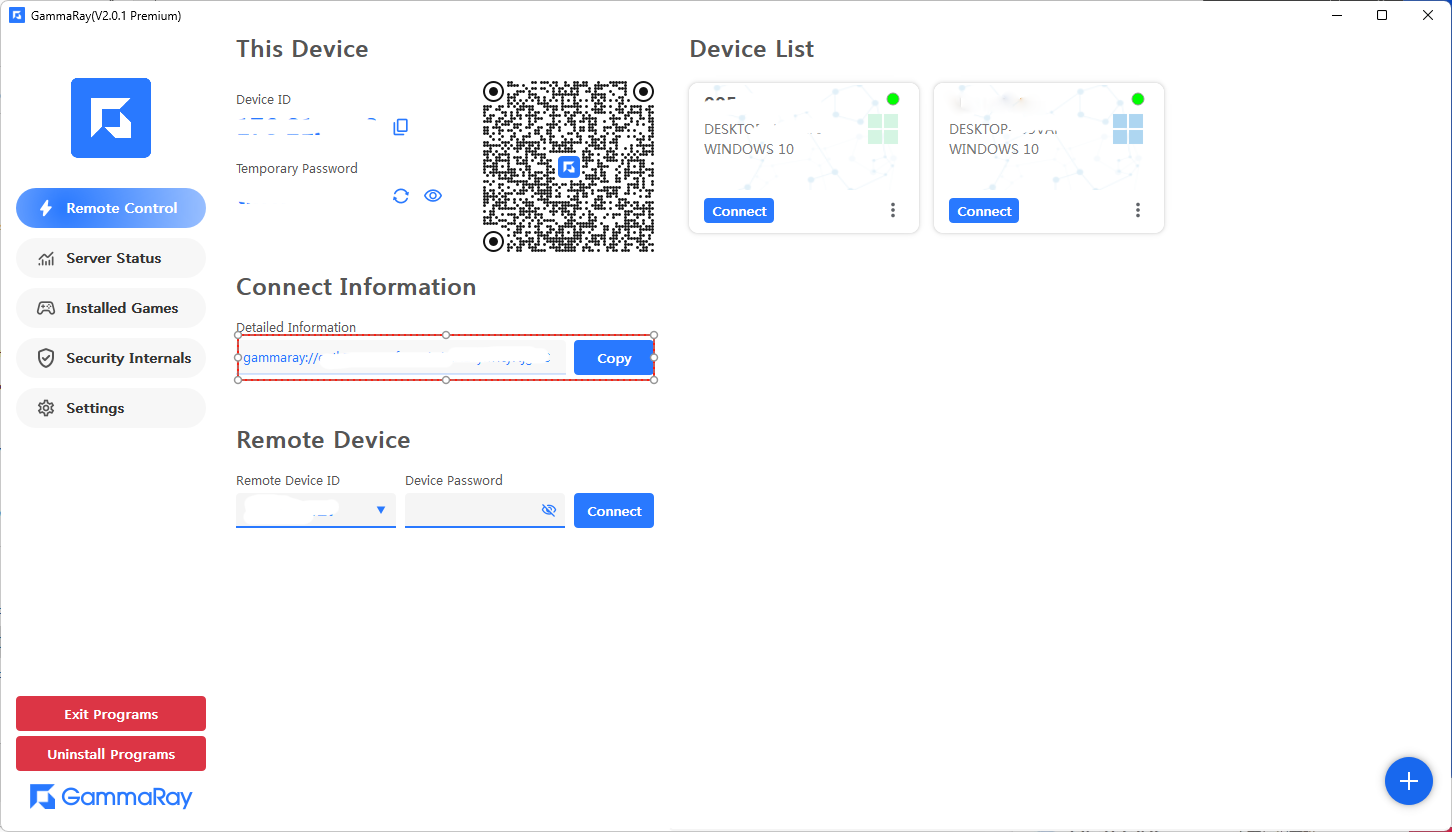
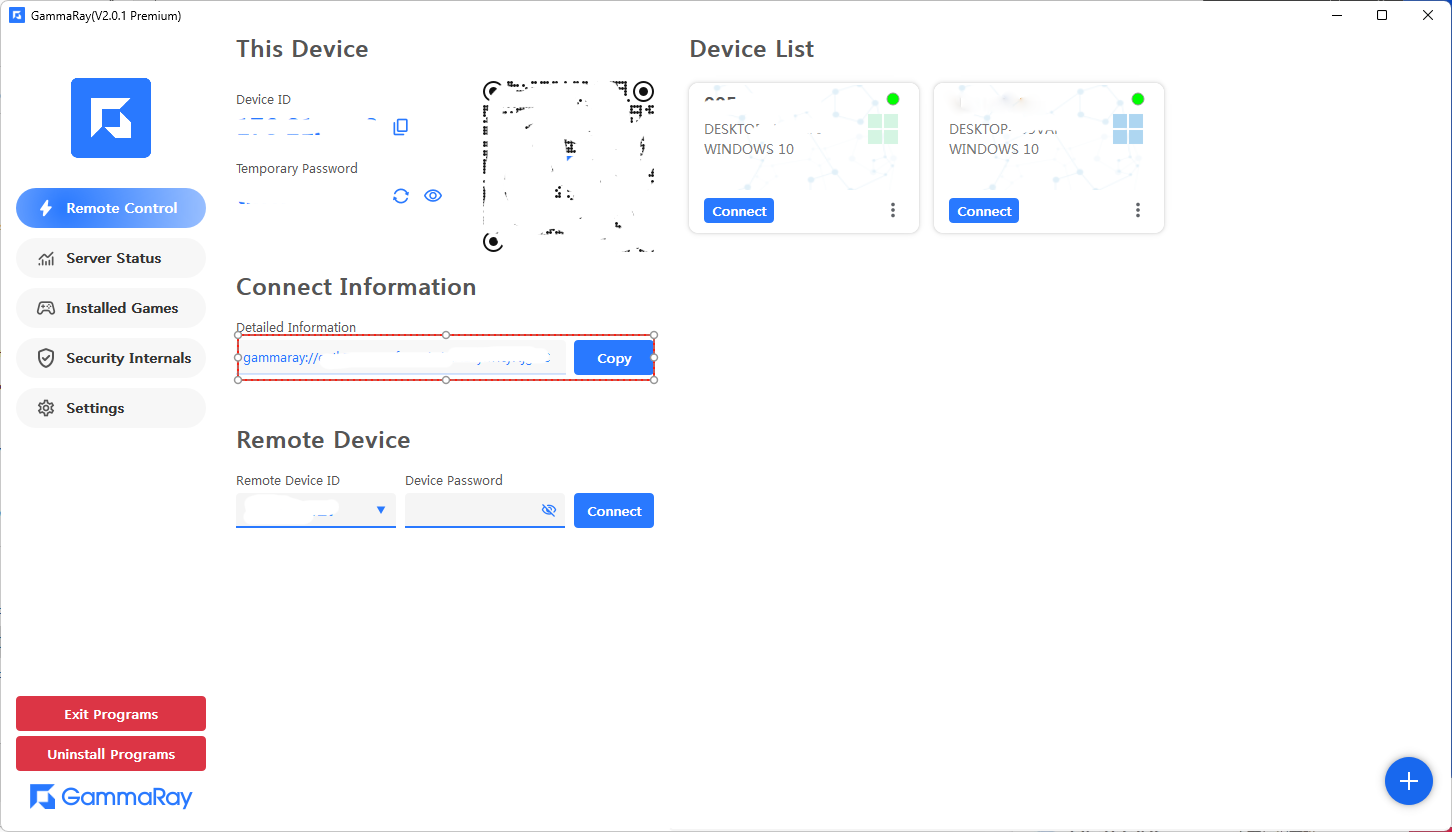
encrypt qrcode

Changed region(s): [[0.3099, 0.0938, 0.4649, 0.3125]]

diff --git a/src/render/app/encoder_thread.cpp b/src/render/app/encoder_thread.cpp
@@ -20,7 +20,6 @@
 #include "tc_encoder_new/nvenc_video_encoder.h"
 #include "settings/rd_settings.h"
 #include "app/app_messages.h"
-#include "settings/rd_settings.h"
 #include "render/rd_statistics.h"
 #include "tc_common_new/win32/d3d_render.h"
 #include "tc_common_new/win32/d3d_debug_helper.h"
@@ -65,22 +64,35 @@ namespace tc
             return;
         }
         PostEncTask([=, this]() {
+
+            auto adapter_uid = cap_video_msg.adapter_uid_;
+
             // plugins: SharedTexture
             if (cap_video_msg.handle_ > 0) {
+
+                // all plugins   // to do 这里要不要考虑adapter_uid不合法的情况
+                plugin_manager_->VisitAllPlugins([=, this](GrPluginInterface* plugin) {
+                    plugin->d3d11_devices_[adapter_uid] = app_->GetD3DDevice(adapter_uid);
+                    plugin->d3d11_devices_context_[adapter_uid] = app_->GetD3DContext(adapter_uid);
+                });
+
                 context_->PostStreamPluginTask([=, this]() {
                     plugin_manager_->VisitAllPlugins([=](GrPluginInterface* plugin) {
                         plugin->OnRawVideoFrameSharedTexture(cap_video_msg.display_name_,
                                                              cap_video_msg.frame_index_,
                                                              cap_video_msg.frame_width_,
                                                              cap_video_msg.frame_height_,
-                                                             cap_video_msg.handle_);
+                                                             cap_video_msg.handle_,
+                                                             cap_video_msg.adapter_uid_,
+                                                             cap_video_msg.frame_format_
+                                                            );
                     });
                 });
             }
 
             auto settings = RdSettings::Instance();
             auto frame_index = cap_video_msg.frame_index_;
-            auto adapter_uid = cap_video_msg.adapter_uid_;
+            //auto adapter_uid = cap_video_msg.adapter_uid_;
             auto monitor_name = std::string(cap_video_msg.display_name_);
             bool frame_meta_info_changed = [&]() {
                 auto last_video_frame_exists = last_video_frames_.contains(monitor_name);
@@ -169,10 +181,10 @@ namespace tc
                 }
 
                 // all plugins
-                plugin_manager_->VisitAllPlugins([=, this](GrPluginInterface* plugin) {
-                    plugin->d3d11_devices_[adapter_uid] = app_->GetD3DDevice(adapter_uid);
-                    plugin->d3d11_devices_context_[adapter_uid] = app_->GetD3DContext(adapter_uid);
-                });
+                //plugin_manager_->VisitAllPlugins([=, this](GrPluginInterface* plugin) {
+                //    plugin->d3d11_devices_[adapter_uid] = app_->GetD3DDevice(adapter_uid);
+                //    plugin->d3d11_devices_context_[adapter_uid] = app_->GetD3DContext(adapter_uid);
+                //});
 
                 // video frame carrier
                 auto r = frame_carrier_plugin_->InitFrameCarrier(GrCarrierParams {

diff --git a/src/render_panel/ui/tab_server.cpp b/src/render_panel/ui/tab_server.cpp
@@ -7,8 +7,6 @@
 #include <QVBoxLayout>
 #include <QHBoxLayout>
 #include <QLabel>
-#include <QHBoxLayout>
-#include <QVBoxLayout>
 #include <QMenu>
 #include <QAction>
 #include <QLineEdit>
@@ -32,7 +30,6 @@
 #include "rn_empty.h"
 #include "tc_common_new/message_notifier.h"
 #include "tc_common_new/md5.h"
-#include "render_panel/gr_app_messages.h"
 #include "tc_common_new/log.h"
 #include "qt_circle.h"
 #include "tc_dialog.h"
@@ -51,6 +48,7 @@
 #include "tc_qt_widget/tc_password_input.h"
 #include "tc_spvr_client/spvr_api.h"
 #include "tc_common_new/base64.h"
+#include "tc_common_new/tc_aes.h"
 #include "tc_manager_client/mgr_device_operator.h"
 #include "tc_manager_client/mgr_device.h"
 #include "render_panel/devices/running_stream_manager.h"
@@ -58,6 +56,7 @@
 #include "render_panel/gr_workspace.h"
 #include "relay_message.pb.h"
 #include "tc_profile_client/profile_api.h"
+#include "panel_companion/panel_companion_impl.h"
 
 namespace tc
 {
@@ -233,7 +232,7 @@ namespace tc
                 auto layout = new NoMarginVLayout();
 
                 auto qr_info = new TcQRWidget(this);
-                qr_info->setFixedSize(171, 171);
+                qr_info->setFixedSize(183, 183);
                 lbl_qr_code_ = qr_info;
                 qr_info->SetQRPixmap(qr_pixmap_);
                 layout->addWidget(qr_info);
@@ -552,6 +551,15 @@ namespace tc
 
     void TabServer::UpdateQRCode() {
         auto broadcast_msg = context_->MakeBroadcastMessage();
+
+        // companion
+        if (grApp->GetCompanion()) {
+            std::vector<uint8_t> enc_data;
+            if (grApp->GetCompanion()->EcnQRCode(broadcast_msg, enc_data)) {
+                broadcast_msg = Base64::Base64Encode(enc_data.data(), enc_data.size());
+            }
+        }
+
         qr_pixmap_ = QrGenerator::GenQRPixmap(broadcast_msg.c_str(), -1);
         if (lbl_qr_code_) {
             lbl_qr_code_->SetQRPixmap(qr_pixmap_);

diff --git a/src/render/plugin_interface/gr_plugin_interface.h b/src/render/plugin_interface/gr_plugin_interface.h
@@ -190,7 +190,7 @@ namespace tc
                                          bool key) {}
         // raw video frame
         // handle: D3D Shared texture handle
-        virtual void OnRawVideoFrameSharedTexture(const std::string& mon_name, uint64_t frame_idx, int frame_width, int frame_height, uint64_t handle) {}
+        virtual void OnRawVideoFrameSharedTexture(const std::string& mon_name, uint64_t frame_idx, int frame_width, int frame_height, uint64_t handle, int64_t adapter_id, uint64_t frame_format) {}
 
         // raw video frame in rgba format
         // image: Raw image
@@ -207,7 +207,7 @@ namespace tc
                                          int samples, int channels, int bits) {}
         virtual void OnSplitFFTAudioData(const std::vector<double>& left_fft, const std::vector<double>& right_fft) {}
 
-
+        GrPluginInterface* GetPluginById(const std::string& plugin_id);
     protected:
         bool HasParam(const std::string& k) {
             return param_.cluster_.count(k) > 0;
@@ -230,8 +230,6 @@ namespace tc
         int64_t GetConfigIntParam(const std::string& k) { return GetConfigParam<int64_t>(k); }
         bool GetConfigBoolParam(const std::string& k) {return GetConfigParam<bool>(k); }
         double GetConfigDoubleParam(const std::string& k) { return GetConfigParam<double>(k); }
-
-        GrPluginInterface* GetPluginById(const std::string& plugin_id);
 
     protected:
         std::shared_ptr<GrPluginContext> plugin_context_ = nullptr;

diff --git a/src/render/plugin_interface/gr_stream_plugin.h b/src/render/plugin_interface/gr_stream_plugin.h
@@ -27,7 +27,7 @@ namespace tc
                                  bool key) override;
         // raw video frame
         // handle: D3D Shared texture handle
-        void OnRawVideoFrameSharedTexture(const std::string& mon_name, uint64_t frame_idx, int frame_width, int frame_height, uint64_t handle) override {}
+        void OnRawVideoFrameSharedTexture(const std::string& mon_name, uint64_t frame_idx, int frame_width, int frame_height, uint64_t handle, int64_t adapter_id, uint64_t frame_format) override {}
         // raw video frame in rgba format
         // image: Raw image
         void OnRawVideoFrameRgba(const std::string& mon_name, uint64_t frame_idx, int frame_width, int frame_height, const std::shared_ptr<Image>& image) override {}

diff --git a/src/render_panel/companion/panel_companion.h b/src/render_panel/companion/panel_companion.h
@@ -6,6 +6,7 @@
 #define GAMMARAYPREMIUM_PANEL_COMPANION_H
 
 #include <string>
+#include <vector>
 
 namespace tc
 {
@@ -31,6 +32,9 @@ namespace tc
 
         // Spvr
         virtual void UpdateSpvrServerConfig(const std::string& host, int port) = 0;
+
+        // enc
+        virtual bool EcnQRCode(std::string origin_content, std::vector<uint8_t>& cipher_data) = 0;
     };
 
 }
